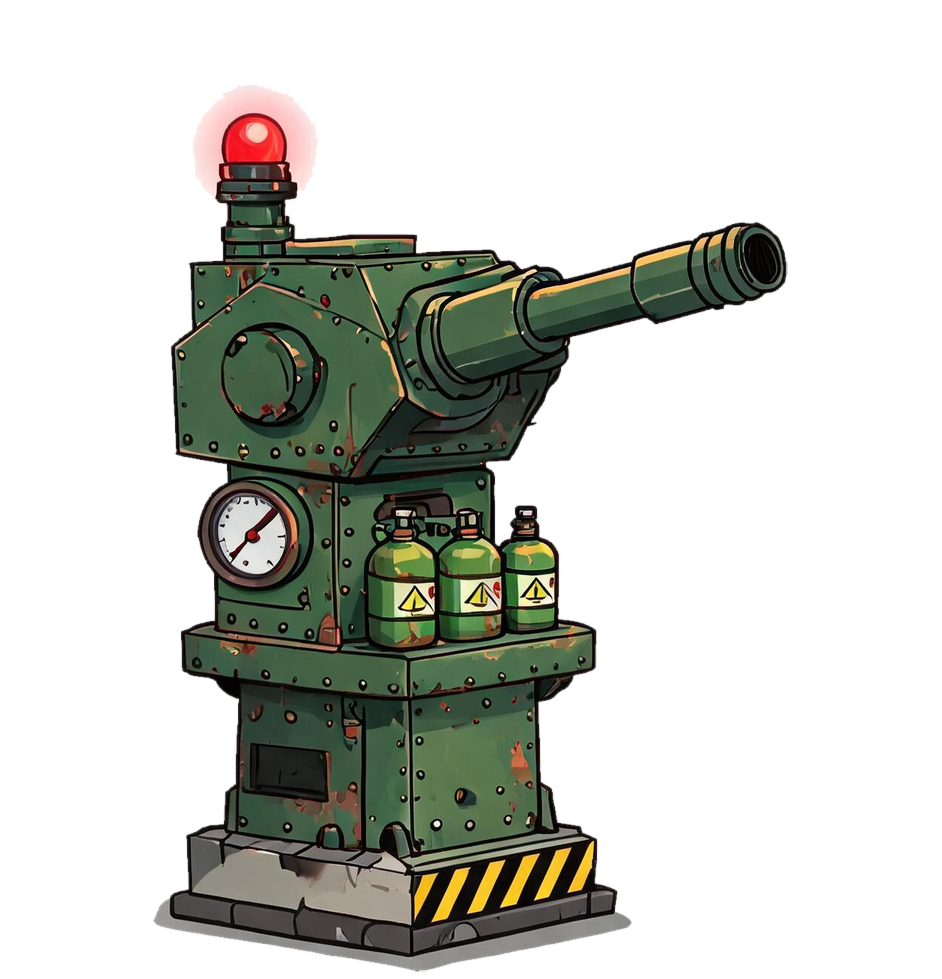
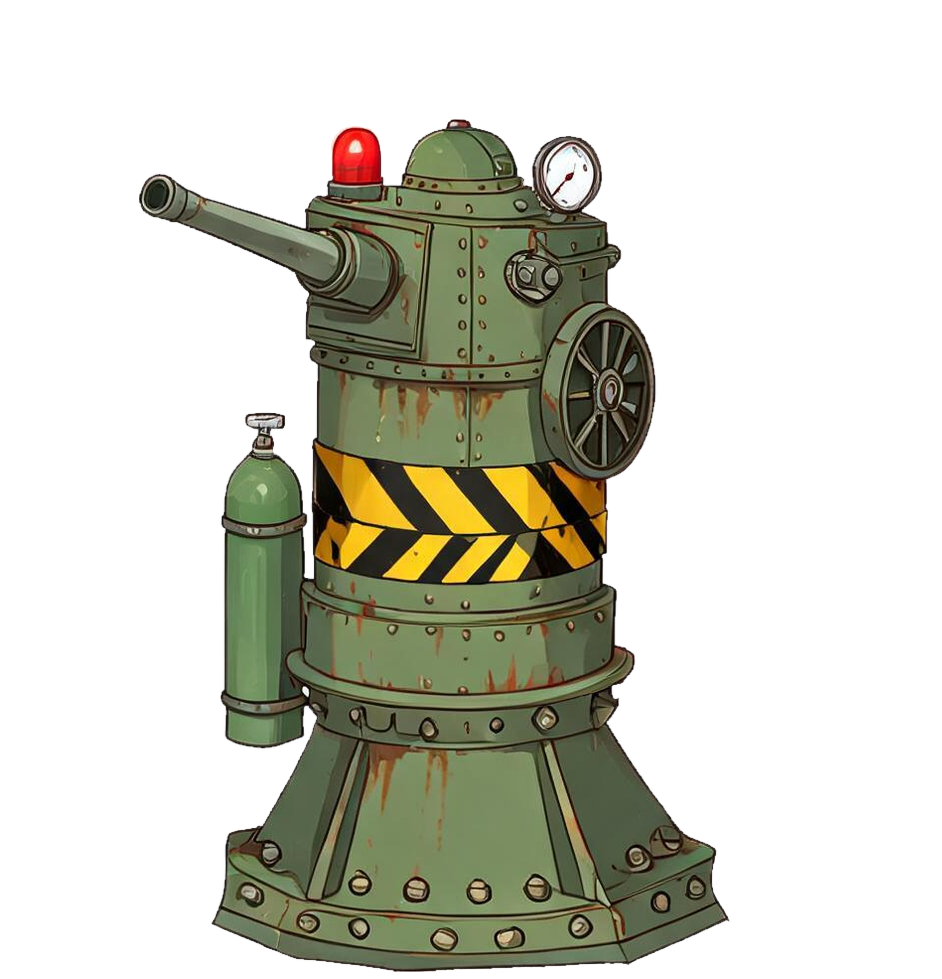
fix(美术): 重制炮塔瞄准/开火图集，统一为同一座塔
Tower01_Aim 此前是另一次生成跑偏的塔（长方形高箱塔+朝右炮管+方形平板底座），
与 Idle/Disable/Fire 的圆柱分节塔完全不同族，播放时瞄准段与开火段对不上。
本次按 Idle/Disable 定妆重画 Aim，并重画 Fire 补回横贯塔身的黄黑斜条纹警示带
与左侧绿气瓶：

- Tower01_Aim：重生成 2x2 四帧（炮管水平→微抬→高抬瞄准→高抬喷绿气），
  塔体与 Idle/Disable 同族，并开启底座锚点对齐（消除塔身逐帧横移）
- Tower01_Fire：重生成 3x2 六帧，六帧均含警示带与左侧绿气瓶，炮管始终朝左上
- process_sheets.py：Tower01_Aim 规格补 anchor='base'；Tower01_Fire 画格宽 1039→1001
- README_素材说明.md：同步画格宽说明与塔体定妆特征

动画引用的是 Frames/ 下同名单帧图（guid 未变），四套 Clip 关键帧 missing=0，
控制台无新增 error。

diff --git a/Tools/art-pipeline/process_sheets.py b/Tools/art-pipeline/process_sheets.py
@@ -50,7 +50,7 @@ SPECS = [
     dict(name='Player_HeavyAttack',cols=6, rows=3, n=18, cell=(692,833), target=760),
     dict(name='Player_Die',        cols=7, rows=1, n=7,  cell=(692,833), target=760),
     dict(name='Enemy03_Spawn',     cols=2, rows=2, n=4,  cell=(993,1124), target=900),
-    dict(name='Tower01_Aim',       cols=2, rows=2, n=4,  cell=(942,979), target=890),
+    dict(name='Tower01_Aim',       cols=2, rows=2, n=4,  cell=(942,979), target=890, anchor='base'),
     dict(name='Tower01_Fire',      cols=3, rows=2, n=6,  cell=(942,979), target=890, anchor='base'),
     dict(name='Boss01_Special',    cols=5, rows=3, n=14, cell=(831,798), target=760),
     dict(name='Boss01_Enrage',     cols=3, rows=2, n=6,  cell=(831,798), target=760),

diff --git a/Assets/Art/README_素材说明.md b/Assets/Art/README_素材说明.md
@@ -96,7 +96,8 @@ ArtAssets\
 | Tower01_Fire | 6 | 3×2 | 12 | 否 | 帧3 HitOn（喷毒）/ 帧5 HitOff |
 | Tower01_Disable | 6 | 3×2 | 12 | 否 | 帧6 停机（被净化变灰） |
 
-> Tower01_Fire 画格宽为 1039（炮管朝向逐帧变化，按底座锚点对齐后自适应加宽；其余三套为 942），高度与底留白 7px 不变。
+> Tower01_Aim 与 Tower01_Fire 均开启**底座锚点对齐**（炮管/毒雾逐帧变向时按底座中心摆位，塔身不再左右滑动），画格宽按各帧「底座到内容两端」自适应：Aim 942、Fire 1001，Idle/Disable 942；高度 979、底留白 7px 不变。
+> 四套 Clip 同一座塔：短粗圆柱分节塔身 + 横贯塔身黄黑斜条纹警示带 + 左侧绿气瓶（铜阀）+ 右侧辐条风扇轮 + 喇叭形带螺栓底座 + 顶部红色警灯/压力表，炮管一律朝左上。
 
 ### Boss01 工厂污染核心（关卡3 最终 BOSS）Cell 831×798 / 77 帧　localScale ≈ 2.25（约4.5单位）
 | Clip | 帧 | 网格 | Samples | 循环 | 事件 |
